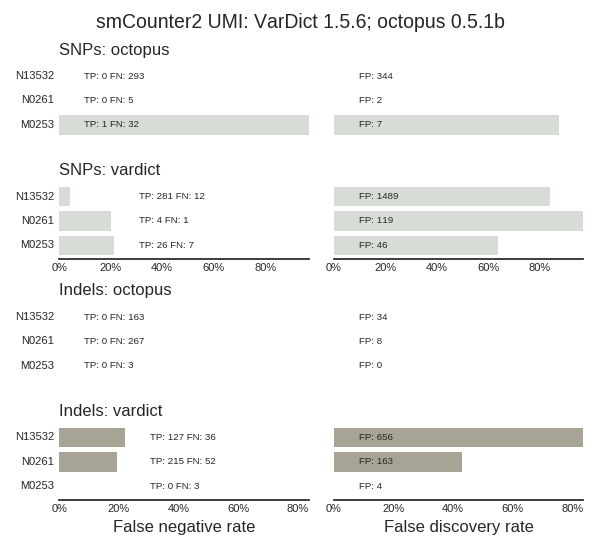
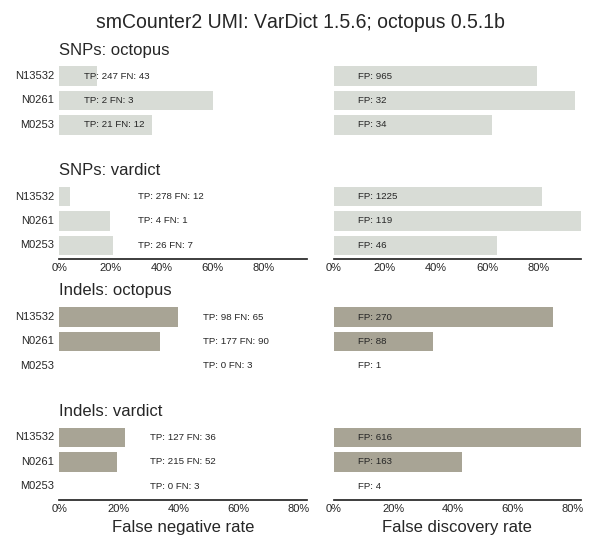
Octopus: greatly improved results and comparisons to VarDict
Thanks to Dan Cooke for helping tips in luntergroup/octopus#29

diff --git a/somatic-lowfreq/README.md b/somatic-lowfreq/README.md
@@ -212,15 +212,20 @@ and we'll move forward with the new version in bcbio.
 
 Thanks to Daniel Cooke, the new 0.5.1 beta release of Octopus supports [many new
 useful features for low frequency UMI detection](https://github.com/luntergroup/octopus/issues/29#issuecomment-422136873).
-We tested these out with the following parameters:
-```
---min-credible-somatic-frequency 0.000625 --min-expected-somatic-frequency 0.0025 --downsample-above 2000 --downsample-target 2000 --min-kmer-prune 5 --min-bubble-score 20 --max-haplotypes 200 --somatic-snv-mutation-rate '5e-4' --somatic-indel-mutation-rate '1e-05' --target-working-memory 20G --max-somatic-haplotypes 3 --caller cancer --legacy --tumour-germline-concentration 5 --allow-octopus-duplicates --overlap-masking 0 --somatic-filter-expression 'GQ < 200 | MQ < 30 | SB > 0.2 | SD[.25] > 0.1 | BQ < 40 | DP < 100 | MF > 0.1 | AD < 5 | CC > 1.1 | GQD > 2'
-```
-The main tweaks from the example [UMI configuration](https://github.com/luntergroup/octopus/blob/master/configs/UMI.config) are
-decreasing downsampling to 2000, instead of 4000, and max-haplotypes to 200
-instead of 400. These were done mid-run in response to out of memory issues when
-running on a [8 core, 30Gb n1-standard-8](https://cloud.google.com/compute/docs/machine-types) machine. Unfortunately
-we didn't get useful sensitivity so will explore key parameter tweaks to help
-improve the issue.
+
+We tested these out with the recommended parameters from the
+the example [UMI configuration](https://github.com/luntergroup/octopus/blob/master/configs/UMI.config).
+The only tweak was setting max-haplotypes back to the default of 200
+instead of 400. This helped avoid out of memory issues when
+running on a [8 core, 30Gb n1-standard-8](https://cloud.google.com/compute/docs/machine-types) machine.
+Thanks to tips from Dan, we've greatly improved where octopus is now in these
+validations:
 
 ![smcounter2 samples, fgbio min-reads 2, low frequency filters](smcounter2/vardict_156_octopus_05/grading-summary-combined.png)
+
+We'll continue to tweak to help improve sensitivity, specificity and runtime.
+
+Octopus identifies unique true positives missing in the VarDict calls. All of
+these are also called in VarDict, but flagged with LongMSI which avoids calling
+in high AT regions. In VarDict we may be able to get some extra sensitivity by
+adjusting this flag and examining how we filter in these regions.
